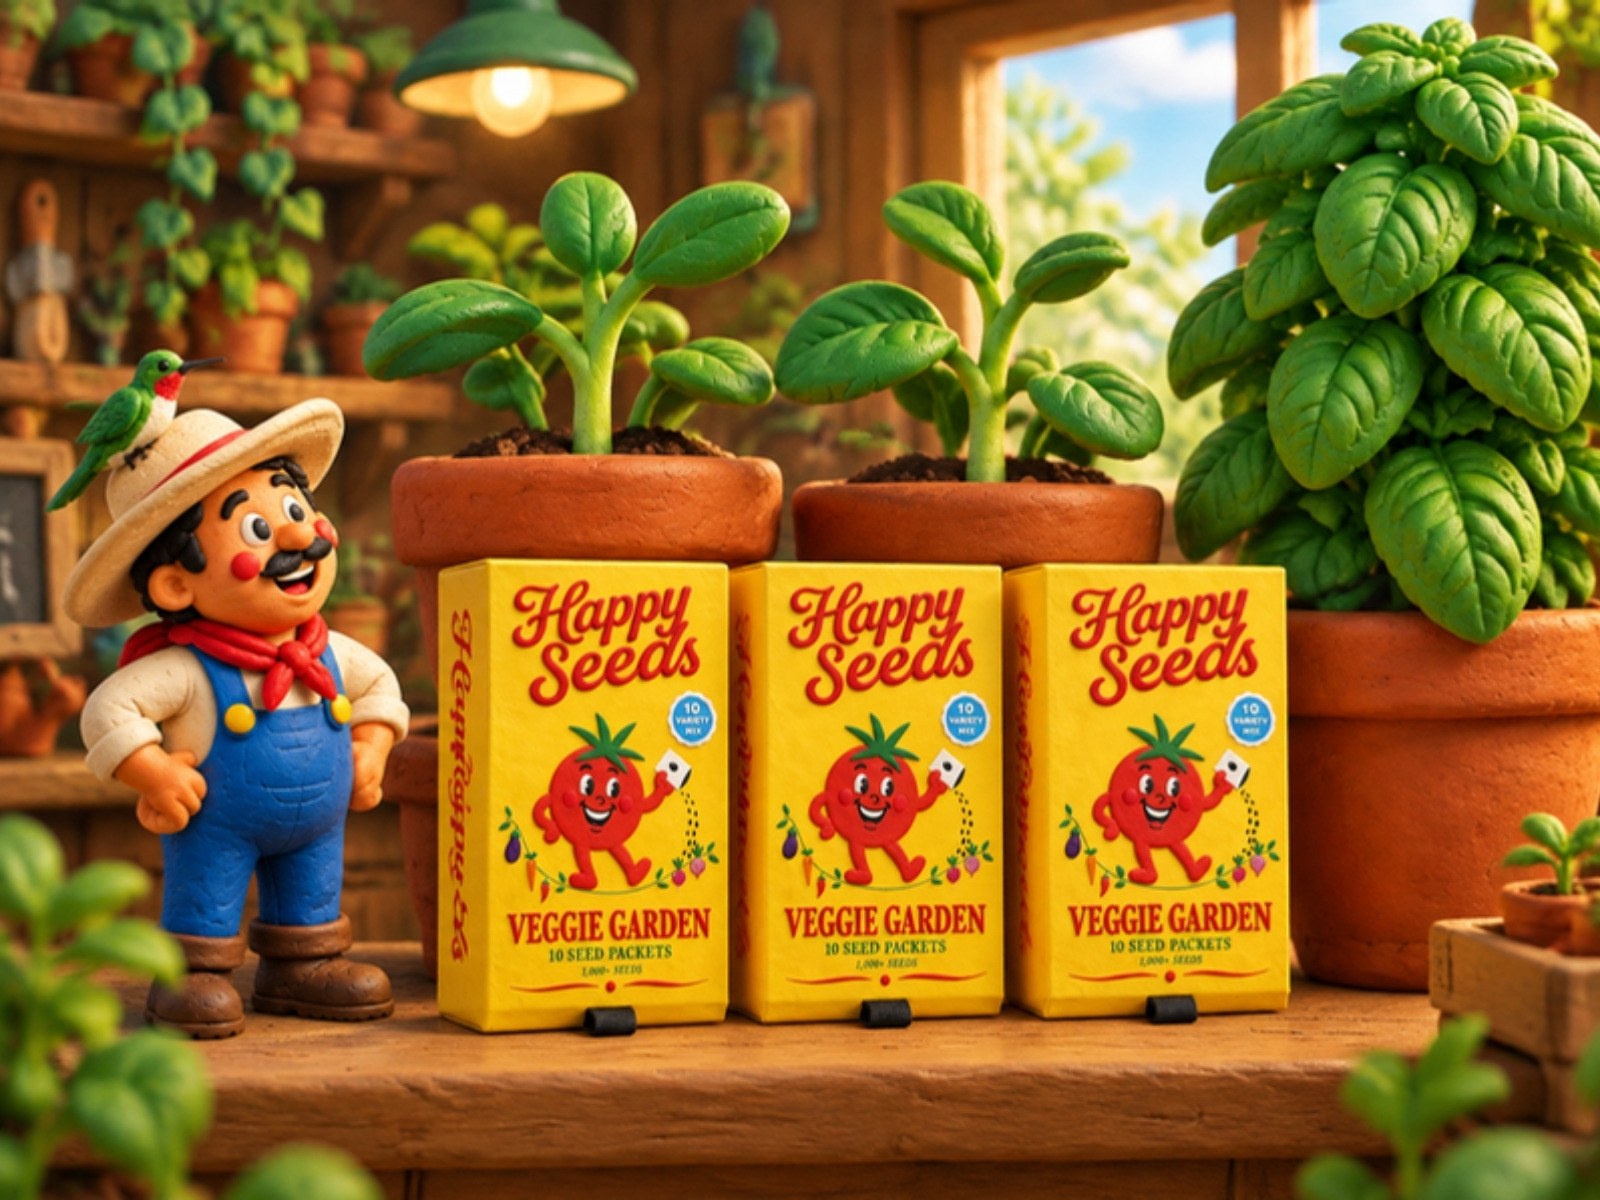
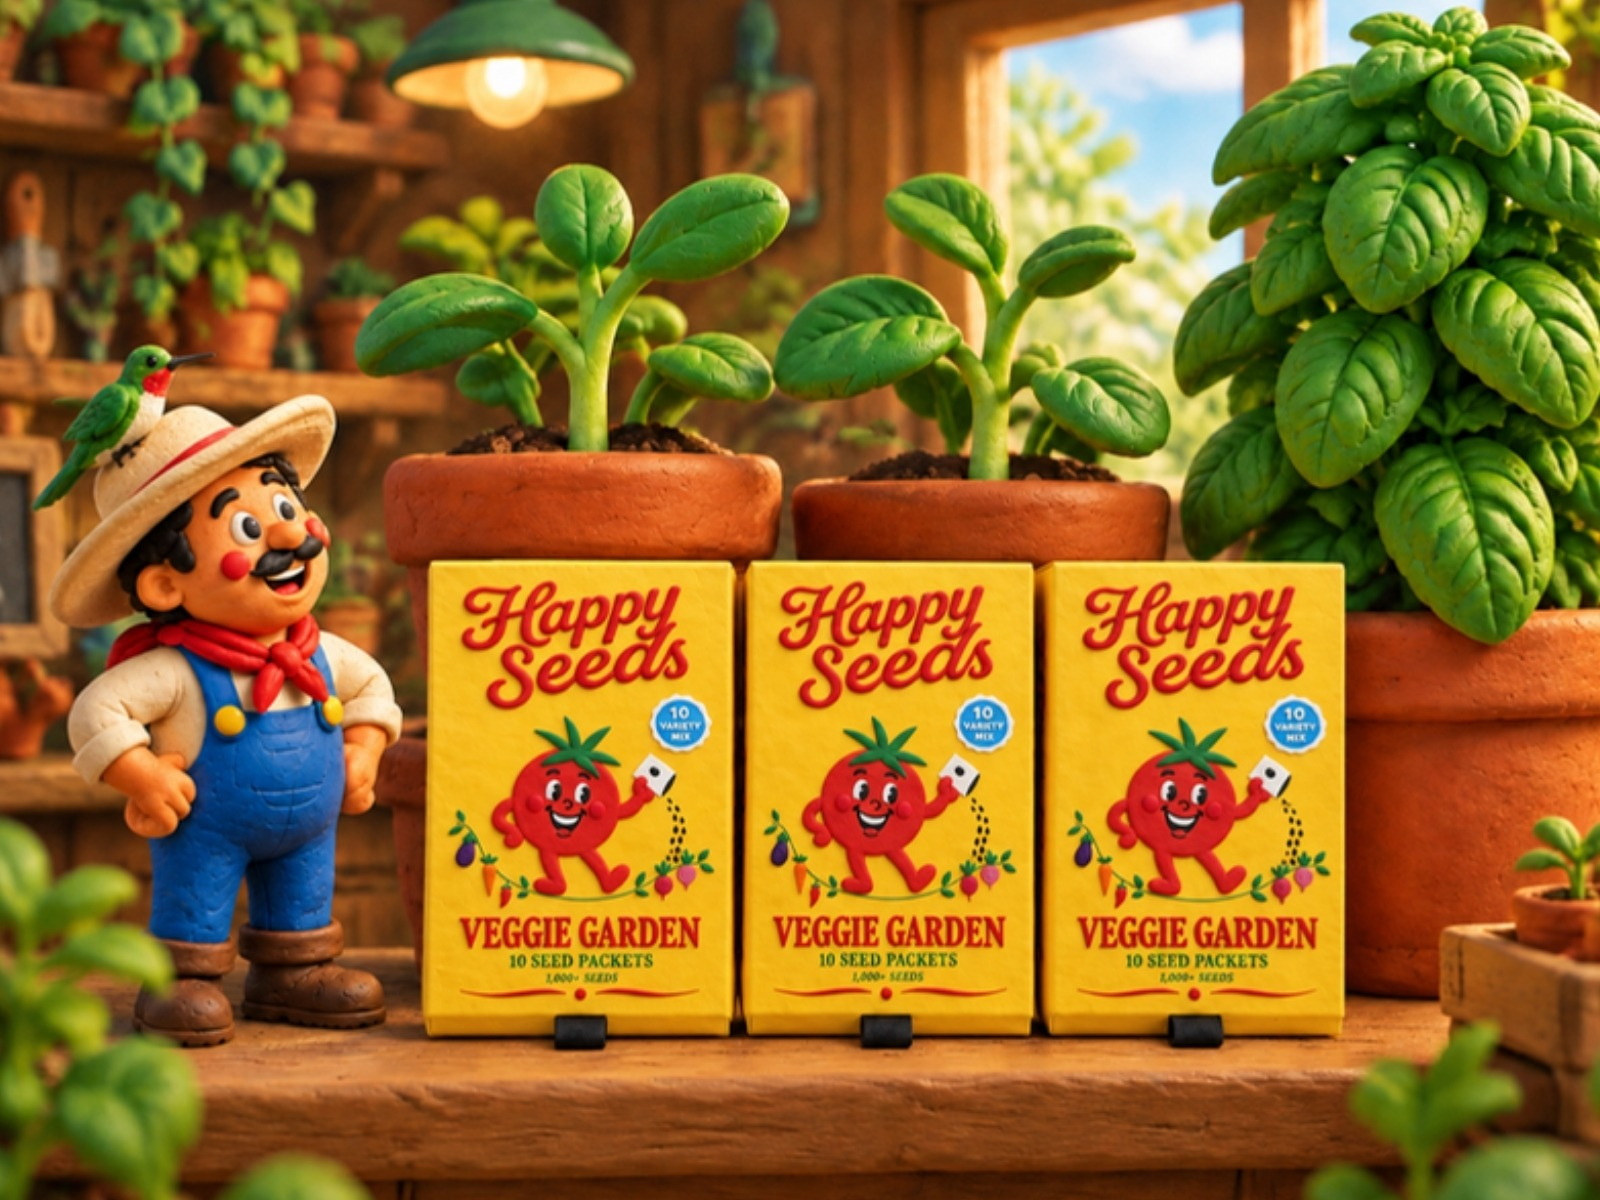
Wholesale image: boxes square to camera, no lettering on box sides (Jared, Nov 2)
Claude-Session: https://claude.ai/code/session_01J2R4BD6HLiQv8B6i7zkBfA

diff --git a/media/brand/clay/README.md b/media/brand/clay/README.md
@@ -11,3 +11,6 @@ Every creative, site image and email header is a stop-motion claymation scene wi
 
 ## The box (Jared, Nov 2 2026): always portrait
 When the box appears it is ALWAYS portrait oriented (standing tall, never landscape). The drawer slides out of a SHORT end, the black pull tab is centered on that short end (never on a long side), and the ten packets and the grow guide are displayed in portrait inside it. Packets are multi-colored like the real product, no readable words. Current open-box image: media/site/farmer/farmer-inside.jpg (Canva MAHZxhqXxE8, DAHZvdUR5_Y page 11).
+
+## Box lettering (Jared, Nov 2 2026): the logo is never messed up
+Generators invent lettering on any box face they cannot copy. Rule: the box is shown square to the camera so only the FRONT face (the real Happy Seeds artwork, from reference MAHY1RbhAIs / MAHX10pD-6o) is visible; any sliver of side or top is plain yellow with no letters, words or marks. Any garbled, mirrored or invented text anywhere on the box, packets or guide fails review. Current wholesale image: media/site/farmer/farmer-wholesale.jpg (Canva MAHZyH8ei6c, DAHZvdUR5_Y page 8) replaced MAHZxX2Hgqw, which had scrambled text on the box side.
